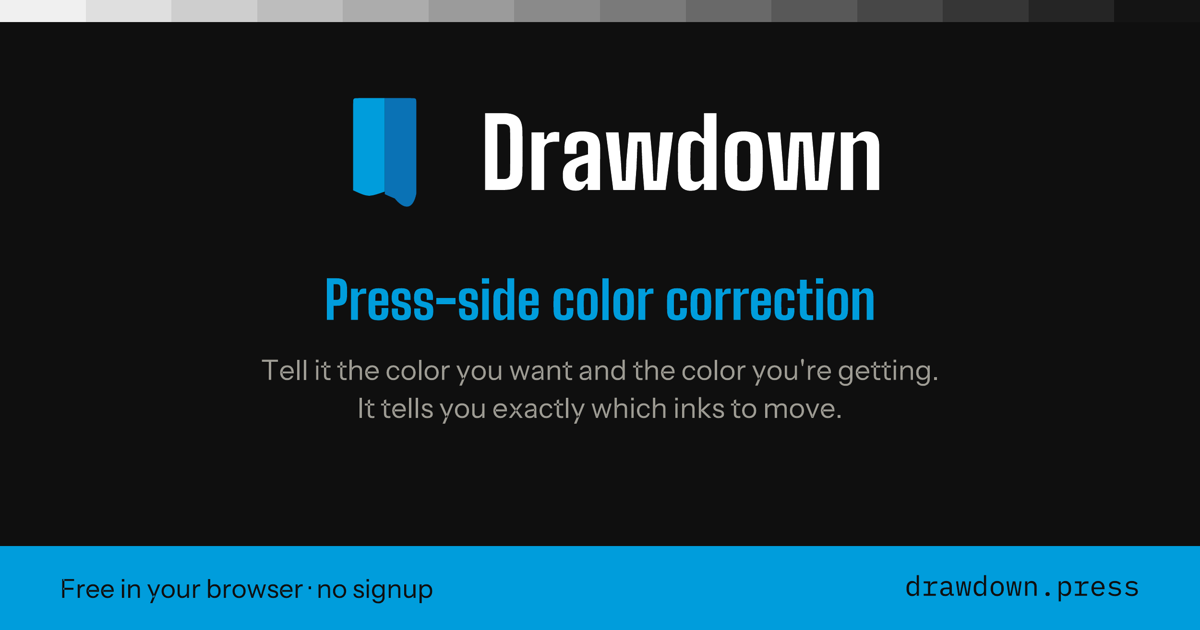
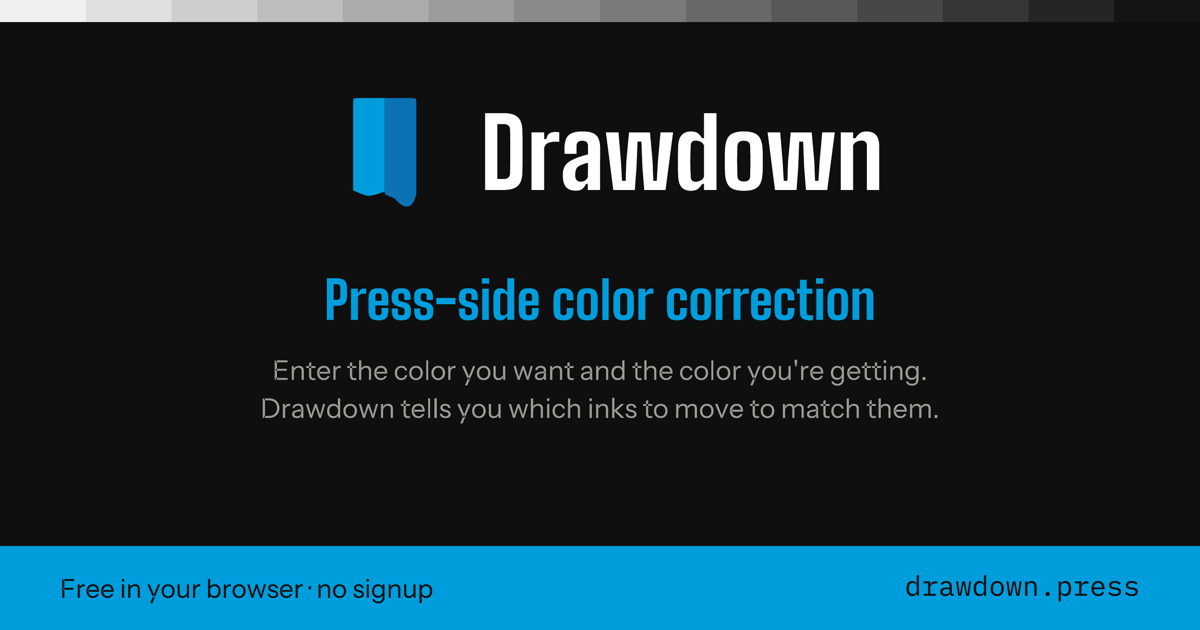
Clearer Description

Changed region(s): [[0.2158, 0.573, 0.7708, 0.6635]]

diff --git a/index.html b/index.html
@@ -9,7 +9,7 @@
 
     <!-- Primary SEO -->
     <title>Drawdown — Press-Side Color Correction for Printers &amp; Sign Shops</title>
-    <meta name="description" content="Enter the color you want and the color you're getting — Drawdown tells you exactly which inks to move to close the gap. Free in your browser, no signup. Built for press operators, prepress, and wide-format sign shops." />
+    <meta name="description" content="Enter the color you want and the color you're getting, and Drawdown tells you which inks to move to make them match. Free in your browser, no signup. Built for press operators, prepress, and wide-format sign shops." />
     <meta name="keywords" content="color correction, CMYK, Pantone to CMYK, prepress, ink correction, Delta E, wide format color, sign shop color, press color matching, GRACoL, color management" />
     <meta name="author" content="Drawdown" />
     <link rel="canonical" href="https://drawdown.press/" />
@@ -18,7 +18,7 @@
     <meta property="og:type" content="website" />
     <meta property="og:site_name" content="Drawdown" />
     <meta property="og:title" content="Drawdown — Press-Side Color Correction" />
-    <meta property="og:description" content="Tell it the color you want and the color you're getting. It tells you exactly which inks to move. Free in your browser, no signup." />
+    <meta property="og:description" content="Enter the color you want and the color you're getting. Drawdown tells you which inks to move to make them match. Free in your browser, no signup." />
     <meta property="og:url" content="https://drawdown.press/" />
     <meta property="og:image" content="https://drawdown.press/drawdown-og.png" />
     <meta property="og:image:width" content="1200" />
@@ -28,7 +28,7 @@
     <!-- Twitter / X card -->
     <meta name="twitter:card" content="summary_large_image" />
     <meta name="twitter:title" content="Drawdown — Press-Side Color Correction" />
-    <meta name="twitter:description" content="Tell it the color you want and the color you're getting. It tells you exactly which inks to move. Free in your browser." />
+    <meta name="twitter:description" content="Enter the color you want and the color you're getting. Drawdown tells you which inks to move to make them match. Free in your browser." />
     <meta name="twitter:image" content="https://drawdown.press/drawdown-og.png" />
   </head>
   <body>
